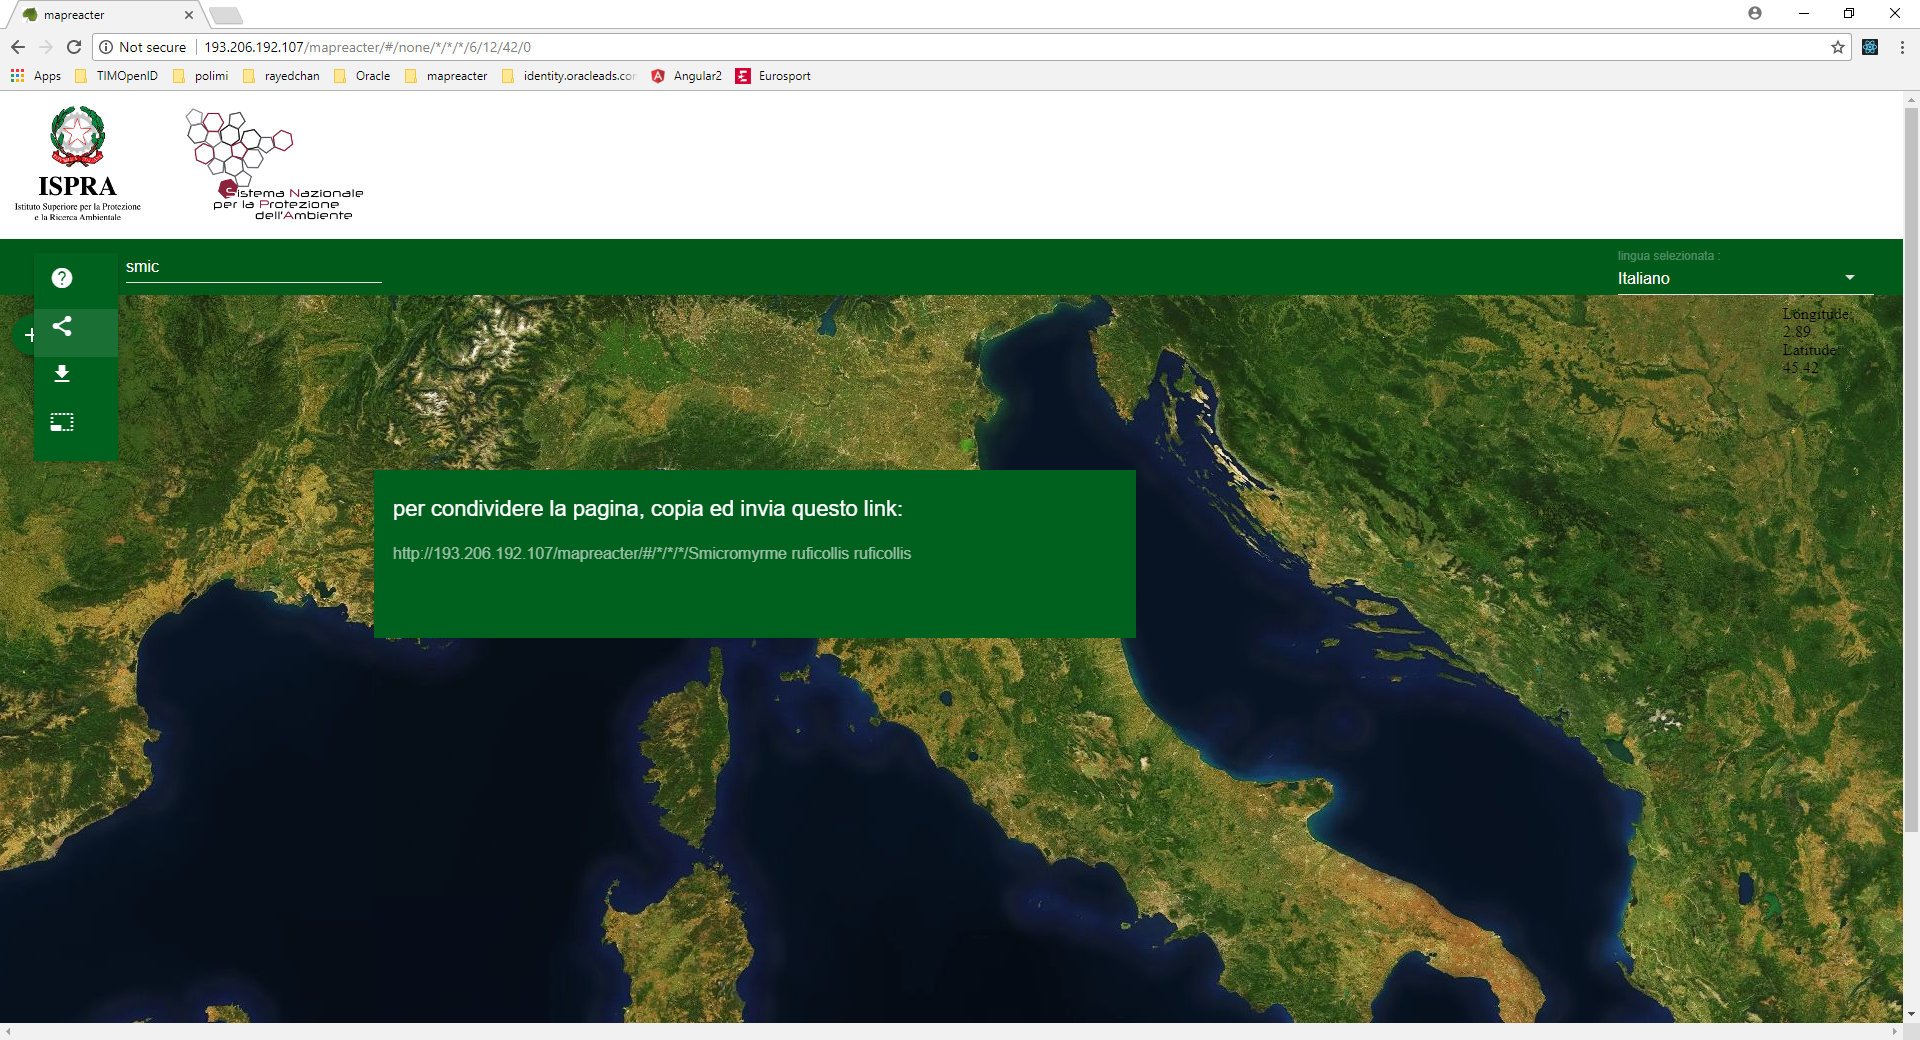
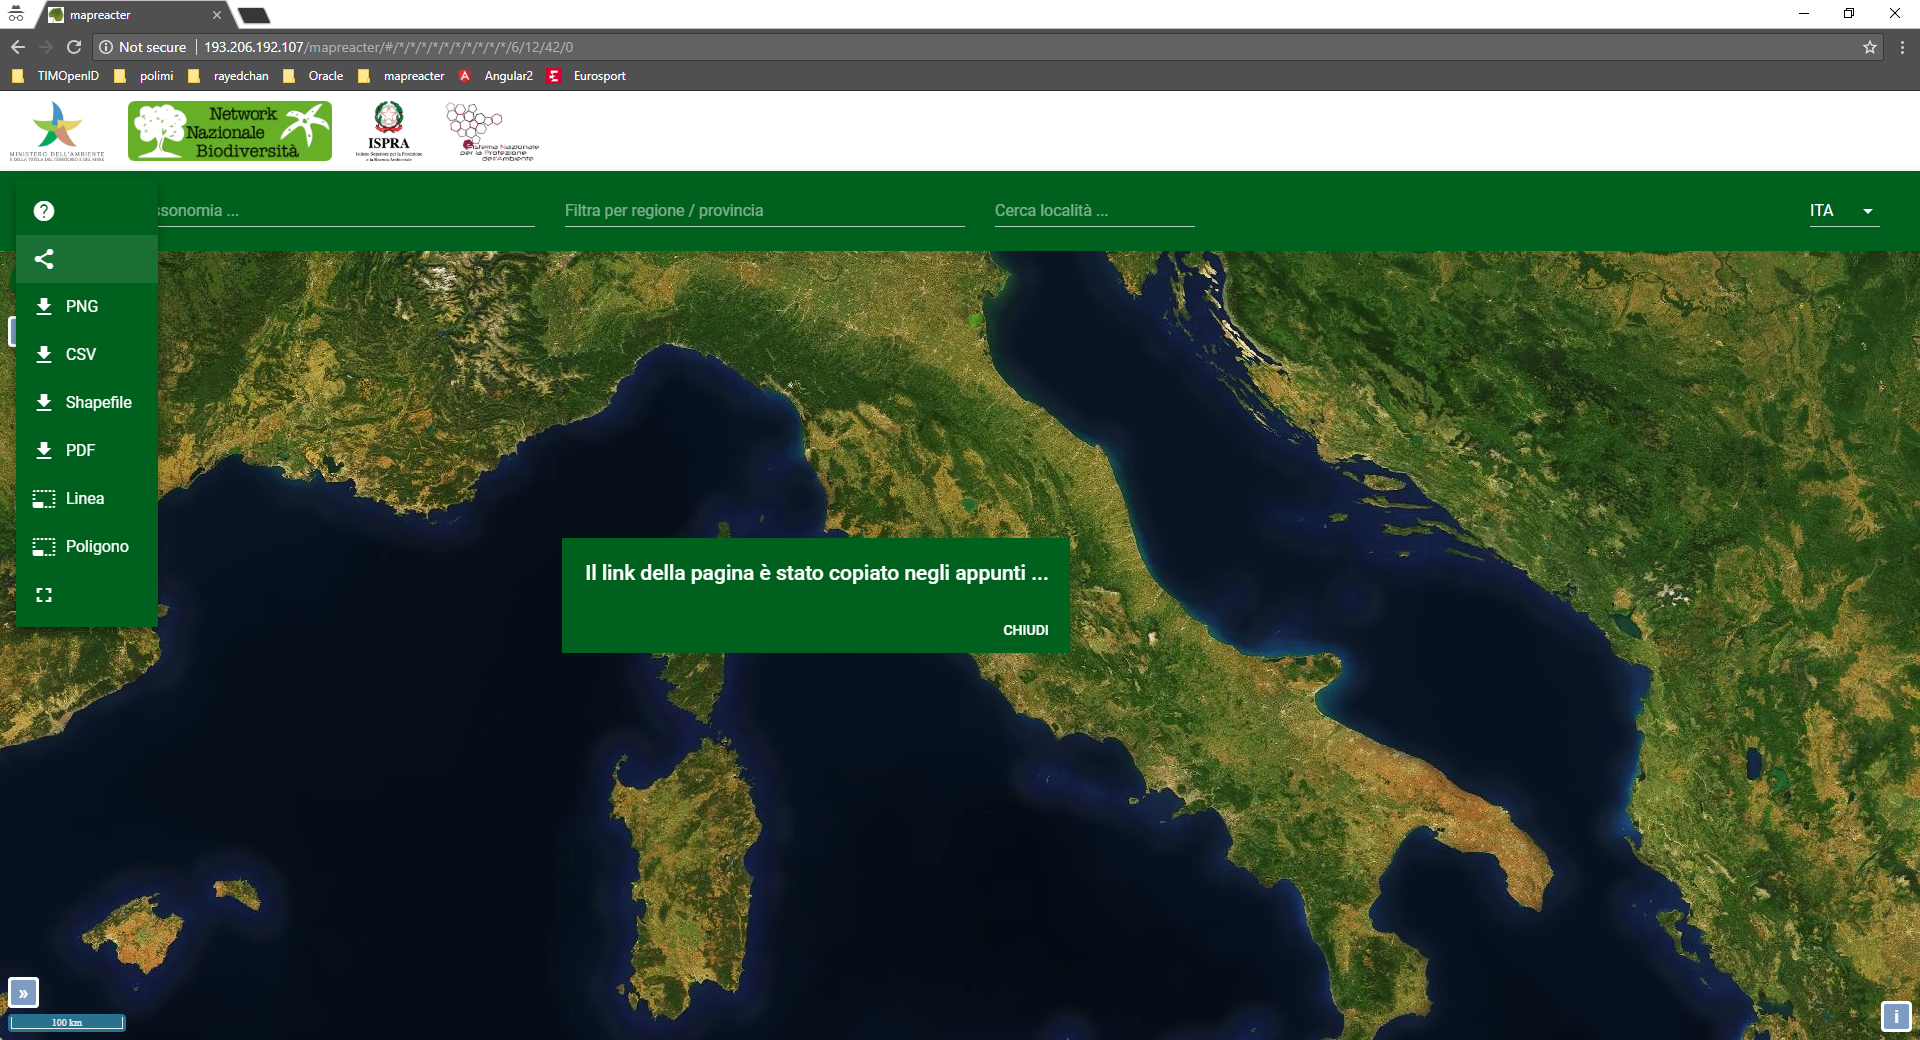
june

diff --git a/website/translated_docs/it/doc_mapreacter.md b/website/translated_docs/it/doc_mapreacter.md
@@ -8,16 +8,16 @@ Il sistema consente la visualizzazione su mappa delle osservazioni e delle distr
 
 ## Filtri:
 
-I filtri (quale ordine, famiglia, genere o specie visualizzare) possono essere passati tramite url oppure tramite la [ricerca tassonomica](doc_search.md).
+I filtri (quale ordine, famiglia, genere o specie visualizzare) possono essere passati tramite url oppure tramite la [ricerca tassonomica](doc_search.md) ed il [filtro regione provincia](doc_regionprovince.md).
 
 ## url di esempio:
 
 Di seguito alcune url di esempio:
 ```
-http://193.206.192.107/mapreacter/#/Chordeumatida
-http://193.206.192.107/mapreacter/#/*/Chordodidae
-http://193.206.192.107/mapreacter/#/*/*/Chordodes
-http://193.206.192.107/mapreacter/#/*/*/*/Smicromyrme ruficollis ruficollis
+http://193.206.192.107/mapreacter/#/Passeriformes
+http://193.206.192.107/mapreacter/#/*/Motacillidae
+http://193.206.192.107/mapreacter/#/*/*/Motacilla
+http://193.206.192.107/mapreacter/#/*/*/*/Motacilla%20flava
 ```
 
 

diff --git a/website/translated_docs/it/doc_toc.md b/website/translated_docs/it/doc_toc.md
@@ -6,15 +6,15 @@ id: doc_toc
 
 ## Table of Content
 
-Questa sezione permette di visualizzare la lista dei layer e delle base map presenti.
+Questa sezione permette di visualizzare la lista dei layer.
 
 Per ognuno di questi sono possibili le azioni che seguono: 
 
-## Hide / Show
+## on/off
 
 Tramite questi pulsanti il layer selezionato può essere acceso o spento.
 
-## Up / Down
+## su giù
 
 Tramite questi pulsanti il layer selezionato può essere portato in alto o in basso sulla scala della visibilità.
 

diff --git a/docs/doc_toc.md b/docs/doc_toc.md
@@ -8,15 +8,15 @@ sidebar_label: ToC (table of content)
 
 ## Table of Content
 
-This section allows to view the list of layers and base maps.
+This section allows to view the list of layers.
 
 For each of these the following actions are possible:
 
-## Hide / Show
+## on/off
 
 With these buttons the selected layer can be switched on or off.
 
-## Up / Down
+## up / down
 
 Through these buttons the selected layer can be brought up or down on the visibility scale.
 

diff --git a/docs/doc_mapreacter.md b/docs/doc_mapreacter.md
@@ -10,7 +10,7 @@ The system allows the visualization on the map of the observations and distribut
 
 ## Filters:
 
-Filters (such as order, family, genus or species view) can be passed via url or via the [taxonomy search] (doc_search.md).
+Filters (wich order, family, genus or species to display) can be passed via url or via the [taxonomic search](doc_search.md) and [province filter region](doc_regionprovince.md).
 
 ## Here are some example urls:
 

diff --git a/website/translated_docs/it/doc_download.md b/website/translated_docs/it/doc_download.md
@@ -5,4 +5,4 @@ id: doc_download
 ![download.png](assets/download.png)
 
 
-Questa funzionalità permette di eseguire il download dei layers in uno dei formati che seguono: PNG, CSV e Shapefile.
+Questa funzionalità permette di eseguire il download dei layers in uno dei formati che seguono: PNG, CSV, Shapefile e PDF.

diff --git a/website/translated_docs/it/doc_share.md b/website/translated_docs/it/doc_share.md
@@ -5,5 +5,5 @@ id: doc_share
 ![share.png](assets/share.png)
 
 
-Questa funzionalità mostra la url (completa di permalink), url che và copiata ed inviata per condividere la pagina.
+Questa funzionalità copia la url (completa di permalink) negli appunti, url che va inviata per condividere la pagina.
 

diff --git a/docs/doc_download.md b/docs/doc_download.md
@@ -7,4 +7,4 @@ sidebar_label: Download layers
 ![download.png](assets/download.png)
 
 
-This feature allows to download the layers in one of the following formats: PNG, CSV and Shapefile.
+This feature allows to download the layers in one of the following formats: PNG, CSV, Shapefile and PDF.

diff --git a/docs/doc_share.md b/docs/doc_share.md
@@ -7,5 +7,5 @@ sidebar_label: Share URL
 ![share.png](assets/share.png)
 
 
-This feature shows the url (complete with permalink), url that needs to be copied and sent to share the page.
+This feature shows the url (complete with permalink), url that needs to be sent to share the page.
 

diff --git a/docs/doc_regionprovince.md b/docs/doc_regionprovince.md
@@ -1,0 +1,6 @@
+---
+id: doc_regionprovince
+title: Filter by region/province
+sidebar_label: region/province
+---
+

diff --git a/website/translated_docs/it/doc_regionprovince.md b/website/translated_docs/it/doc_regionprovince.md
@@ -1,0 +1,4 @@
+---
+id: doc_regionprovince
+---
+
